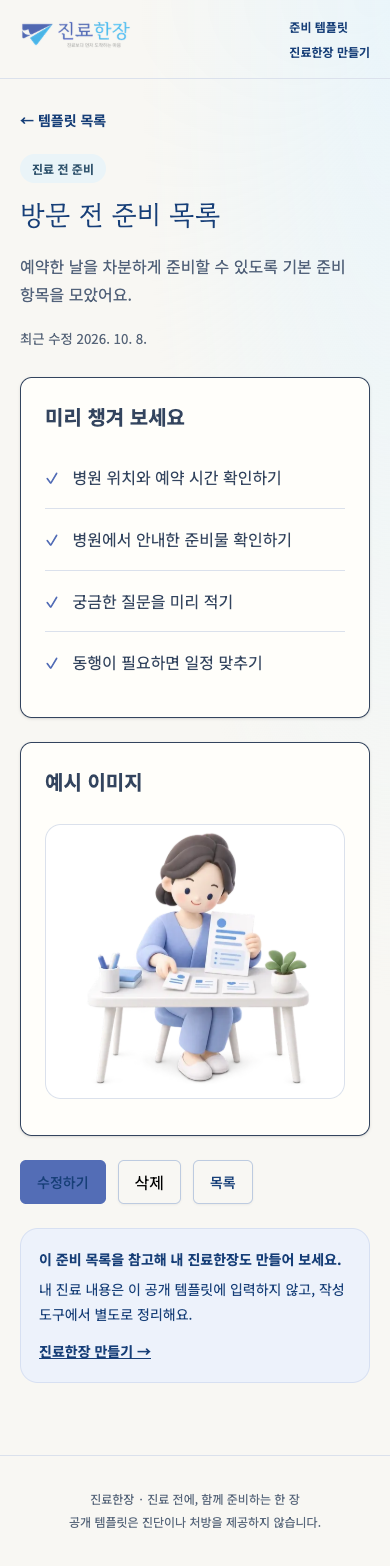
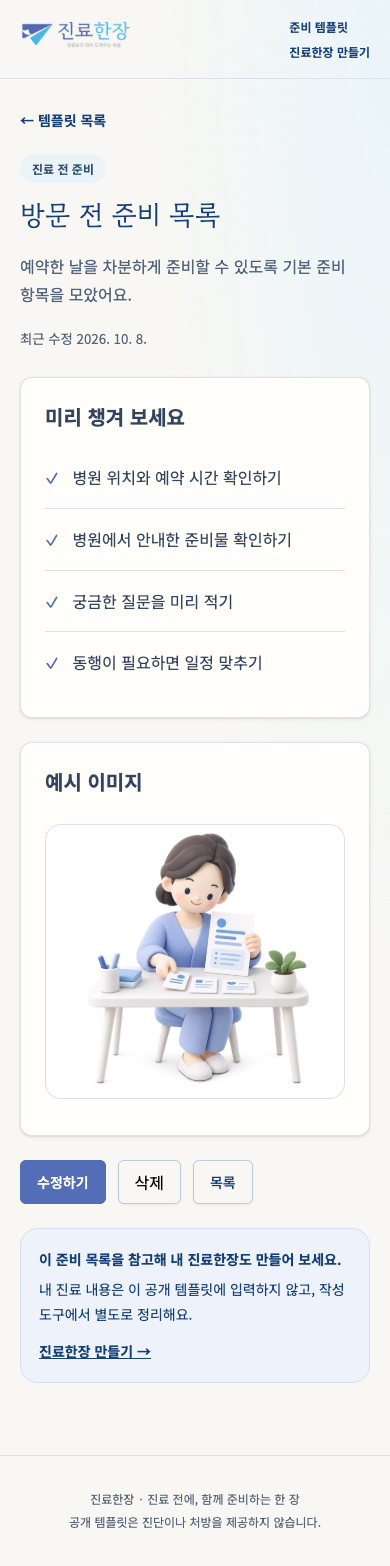
Reduce template response latency and fix production delete preconditions

Changed region(s): [[0.0923, 0.7356, 0.2154, 0.7663], [0.9231, 0.4291, 0.9538, 0.4598]]

diff --git a/tests/templates.spec.ts b/tests/templates.spec.ts
@@ -12,13 +12,11 @@ test("template form validates empty values and bad files without saving", async 
     "입력 항목",
   );
   await expect(page.locator("#title-error")).toContainText("2~60자");
-  await page
-    .locator("#image")
-    .setInputFiles({
-      name: "not-an-image.txt",
-      mimeType: "text/plain",
-      buffer: Buffer.from("example"),
-    });
+  await page.locator("#image").setInputFiles({
+    name: "not-an-image.txt",
+    mimeType: "text/plain",
+    buffer: Buffer.from("example"),
+  });
   await expect(page.locator("#image-error")).toContainText("PNG, JPG, WebP");
   await expect(page.locator("#image")).toHaveValue("");
   for (const width of [320, 390, 768, 1440]) {
@@ -79,7 +77,9 @@ test.describe("real Supabase CRUD", () => {
       await page
         .getByRole("button", { name: "템플릿 등록", exact: true })
         .click();
-      await expect(page).toHaveURL(/\/templates\/[a-f0-9-]+\//);
+      await expect(page).toHaveURL(/\/templates\/[a-f0-9-]+\//, {
+        timeout: 15000,
+      });
       id = new URL(page.url()).pathname.split("/")[2];
       await expect(page.getByRole("status")).toContainText("등록했어요");
       await page.reload();
@@ -102,11 +102,19 @@ test.describe("real Supabase CRUD", () => {
       await page.locator("#title").fill(`${title} 수정`);
       await page.getByLabel("기존 이미지 삭제", { exact: false }).check();
       await page.getByLabel(consent).check();
+      const update = page.waitForResponse(
+        (res) =>
+          res.url().includes(`/api/templates/${id}/`) &&
+          res.request().method() === "PATCH",
+      );
       await page
         .getByRole("button", { name: "수정 내용 저장", exact: true })
         .click();
-      await expect(page.getByRole("status")).toContainText("수정한 내용");
+      expect((await update).status()).toBe(200);
       version = 2;
+      await expect(page.getByRole("status")).toContainText("수정한 내용", {
+        timeout: 15000,
+      });
       await expect(page.getByText("첨부된 이미지가 없어요.")).toBeVisible();
       expect((await request.get(`/api/templates/${id}/image/`)).status()).toBe(
         404,
@@ -139,7 +147,7 @@ test.describe("real Supabase CRUD", () => {
     } finally {
       if (id)
         await request.delete(`/api/templates/${id}/`, {
-          headers: { Origin: base(), "If-Match": String(version) },
+          headers: { Origin: base(), "X-Template-Version": String(version) },
         });
     }
   });
@@ -233,7 +241,7 @@ test.describe("real Supabase CRUD", () => {
     } finally {
       for (const id of ids)
         await request.delete(`/api/templates/${id}/`, {
-          headers: { Origin: base(), "If-Match": "1" },
+          headers: { Origin: base(), "X-Template-Version": "1" },
         });
     }
   });

diff --git a/src/lib/templates/server.ts b/src/lib/templates/server.ts
@@ -83,21 +83,25 @@ export async function cleanupFiles() {
       .select("path")
       .lte("ready_at", new Date().toISOString())
       .limit(10);
-    for (const row of data || []) {
-      const { data: references, error: referenceError } = await db
-        .from("preparation_templates")
-        .select("id")
-        .eq("image_path", row.path)
-        .limit(1);
-      if (referenceError) continue;
-      if (references?.length) {
-        await db.from("template_file_cleanup").delete().eq("path", row.path);
-        continue;
-      }
-      const { error } = await db.storage.from(BUCKET).remove([row.path]);
-      if (!error)
-        await db.from("template_file_cleanup").delete().eq("path", row.path);
-    }
+    const paths = (data || []).map((row) => row.path as string);
+    if (!paths.length) return;
+    const { data: references, error: referenceError } = await db
+      .from("preparation_templates")
+      .select("image_path")
+      .in("image_path", paths);
+    if (referenceError) return;
+    const protectedPaths = new Set(
+      (references || []).map((row) => row.image_path),
+    );
+    const removable = paths.filter((path) => !protectedPaths.has(path));
+    const { error } = removable.length
+      ? await db.storage.from(BUCKET).remove(removable)
+      : { error: null };
+    const finished = error
+      ? paths.filter((path) => protectedPaths.has(path))
+      : paths;
+    if (finished.length)
+      await db.from("template_file_cleanup").delete().in("path", finished);
   } catch {
     /* Durable queue is retried on a later mutation. */
   }

diff --git a/src/lib/templates/mutations.ts b/src/lib/templates/mutations.ts
@@ -1,4 +1,5 @@
 import "server-only";
+import { after } from "next/server";
 import sharp from "sharp";
 import { randomUUID } from "node:crypto";
 import { BUCKET, cleanupFiles, database, getTemplate } from "./server";
@@ -180,7 +181,7 @@ export async function saveTemplate(
   });
   if (error) {
     // Keep upload candidates on their grace period: a network error may follow a committed DB write.
-    await cleanupFiles();
+    after(cleanupFiles);
     if (error.message.includes("TEMPLATE_LIMIT"))
       throw new TemplateError(
         "무료 체험 저장 공간이 가득 찼어요. 필요 없는 예시를 삭제한 후 다시 시도해 주세요.",
@@ -195,7 +196,7 @@ export async function saveTemplate(
       "저장 결과를 확인하지 못했어요. 목록에서 확인한 후 다시 시도해 주세요.",
     );
   }
-  await cleanupFiles();
+  after(cleanupFiles);
   return id;
 }
 export function apiError(error: unknown) {

diff --git a/src/app/api/templates/[id]/route.ts b/src/app/api/templates/[id]/route.ts
@@ -1,3 +1,4 @@
+import { after } from "next/server";
 import {
   apiError,
   checkOrigin,
@@ -22,7 +23,7 @@ export async function DELETE(request: Request, { params }: Context) {
   try {
     checkOrigin(request);
     const { id } = await params;
-    const version = Number(request.headers.get("if-match"));
+    const version = Number(request.headers.get("x-template-version"));
     if (!isUUID(id) || !Number.isInteger(version) || version < 1)
       throw new TemplateError("삭제할 항목을 다시 확인해 주세요.", 400);
     const { data, error } = await database()
@@ -38,7 +39,7 @@ export async function DELETE(request: Request, { params }: Context) {
         "이미 삭제됐거나 수정된 항목이에요. 목록에서 확인해 주세요.",
         409,
       );
-    await cleanupFiles();
+    after(cleanupFiles);
     return Response.json({ deleted: true });
   } catch (error) {
     return apiError(error);

diff --git a/src/components/templates/DeleteTemplate.tsx b/src/components/templates/DeleteTemplate.tsx
@@ -22,7 +22,7 @@ export function DeleteTemplate({
     try {
       const res = await fetch(`/api/templates/${id}/`, {
         method: "DELETE",
-        headers: { "If-Match": String(version) },
+        headers: { "X-Template-Version": String(version) },
       });
       if (!res.ok) {
         const result = await res.json();
